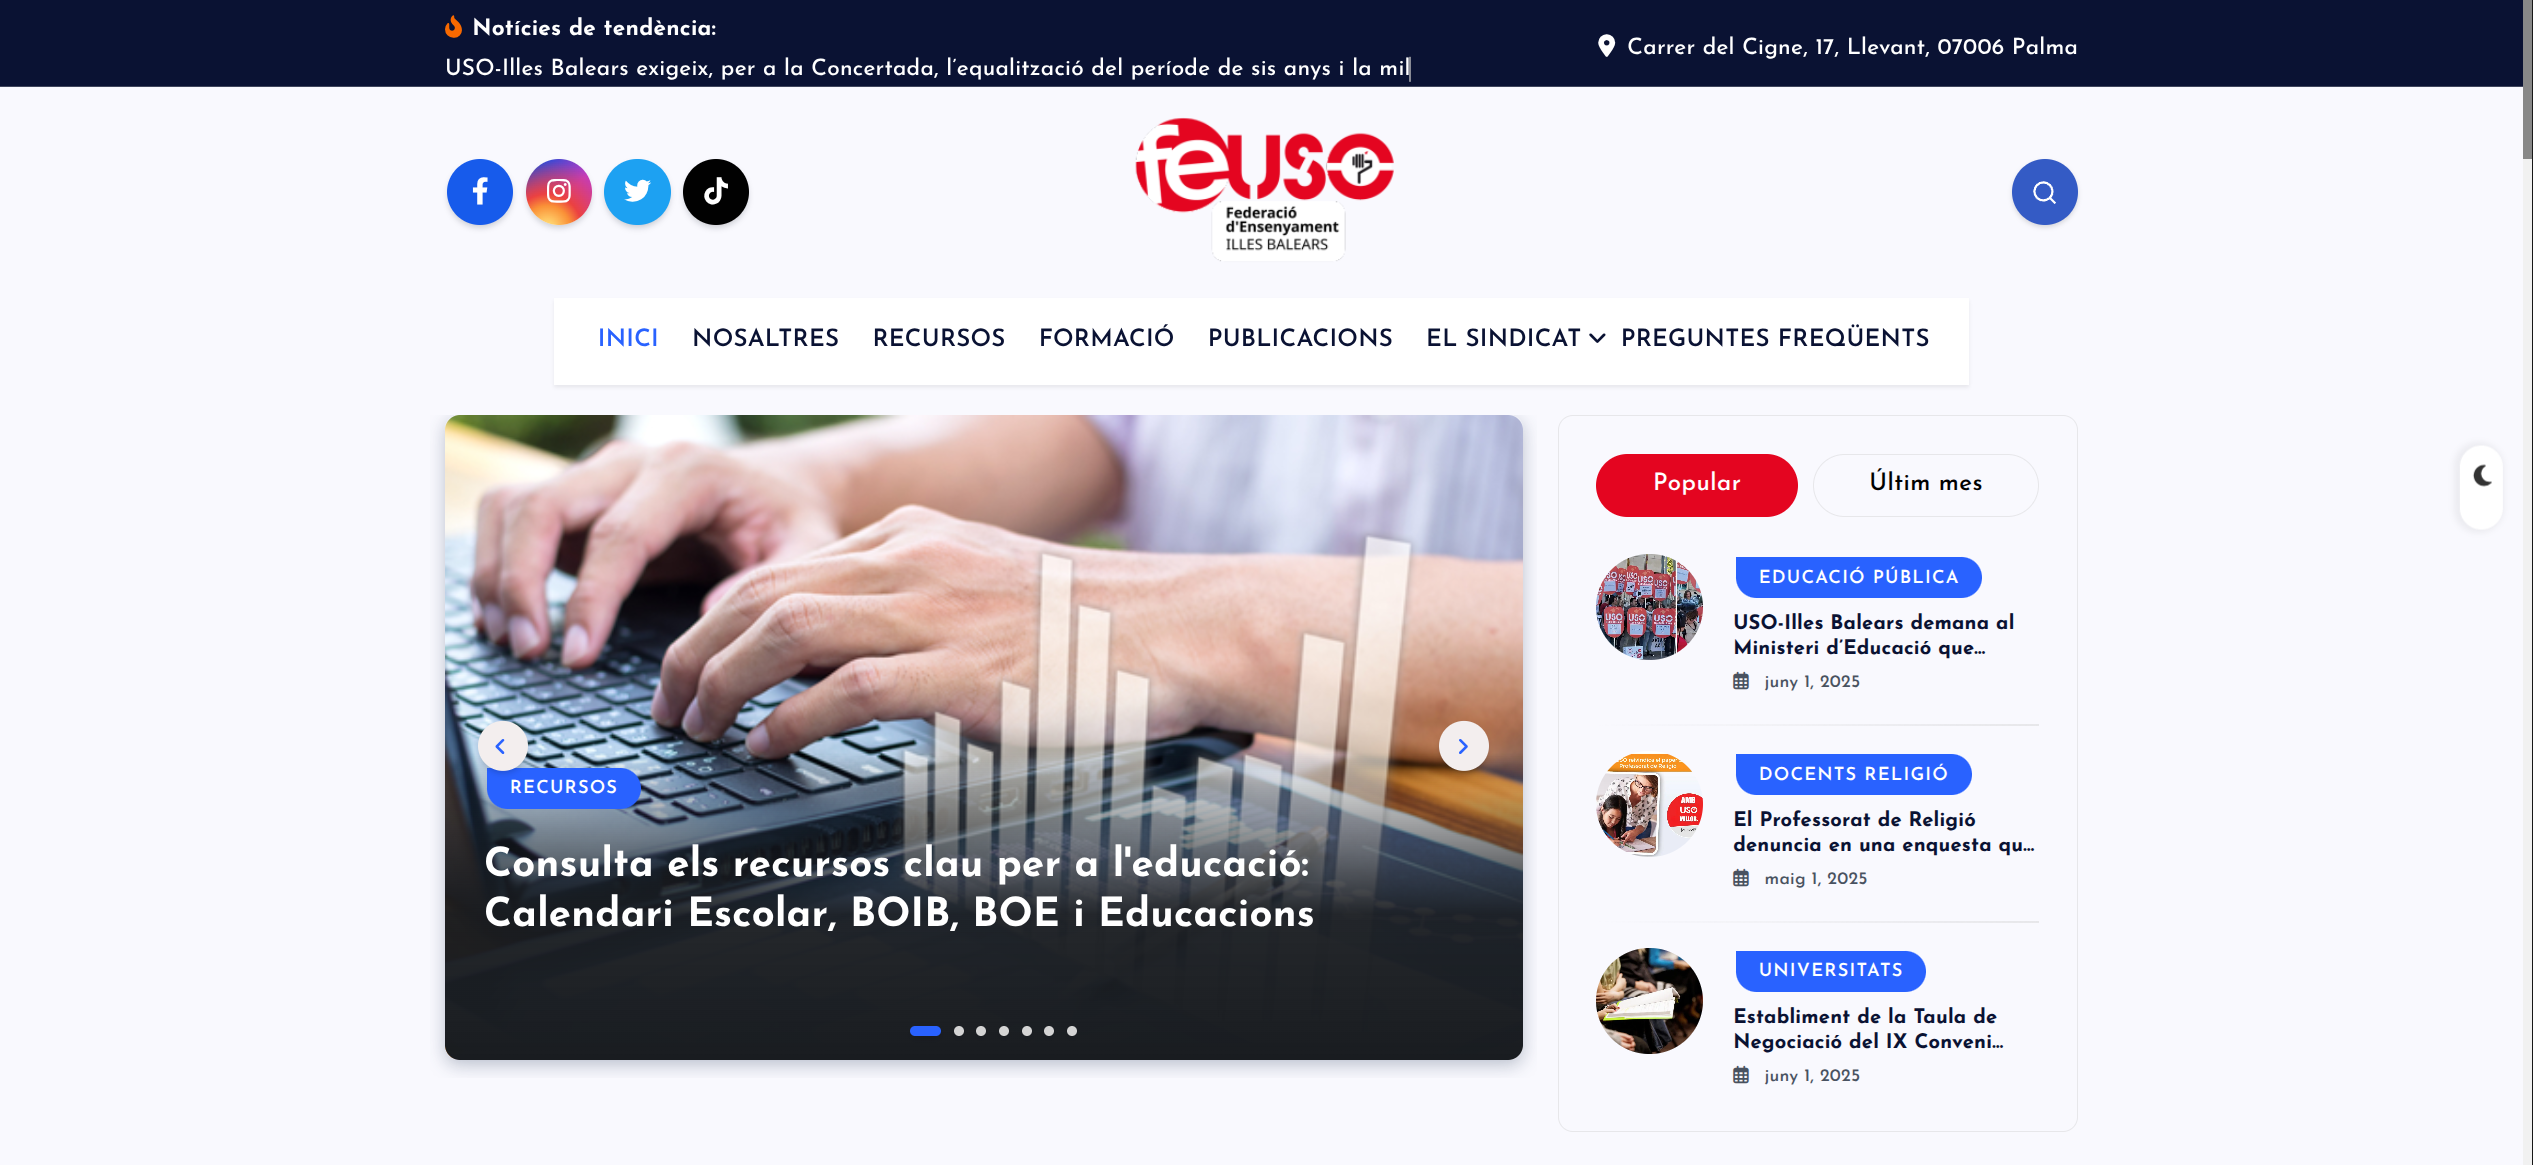
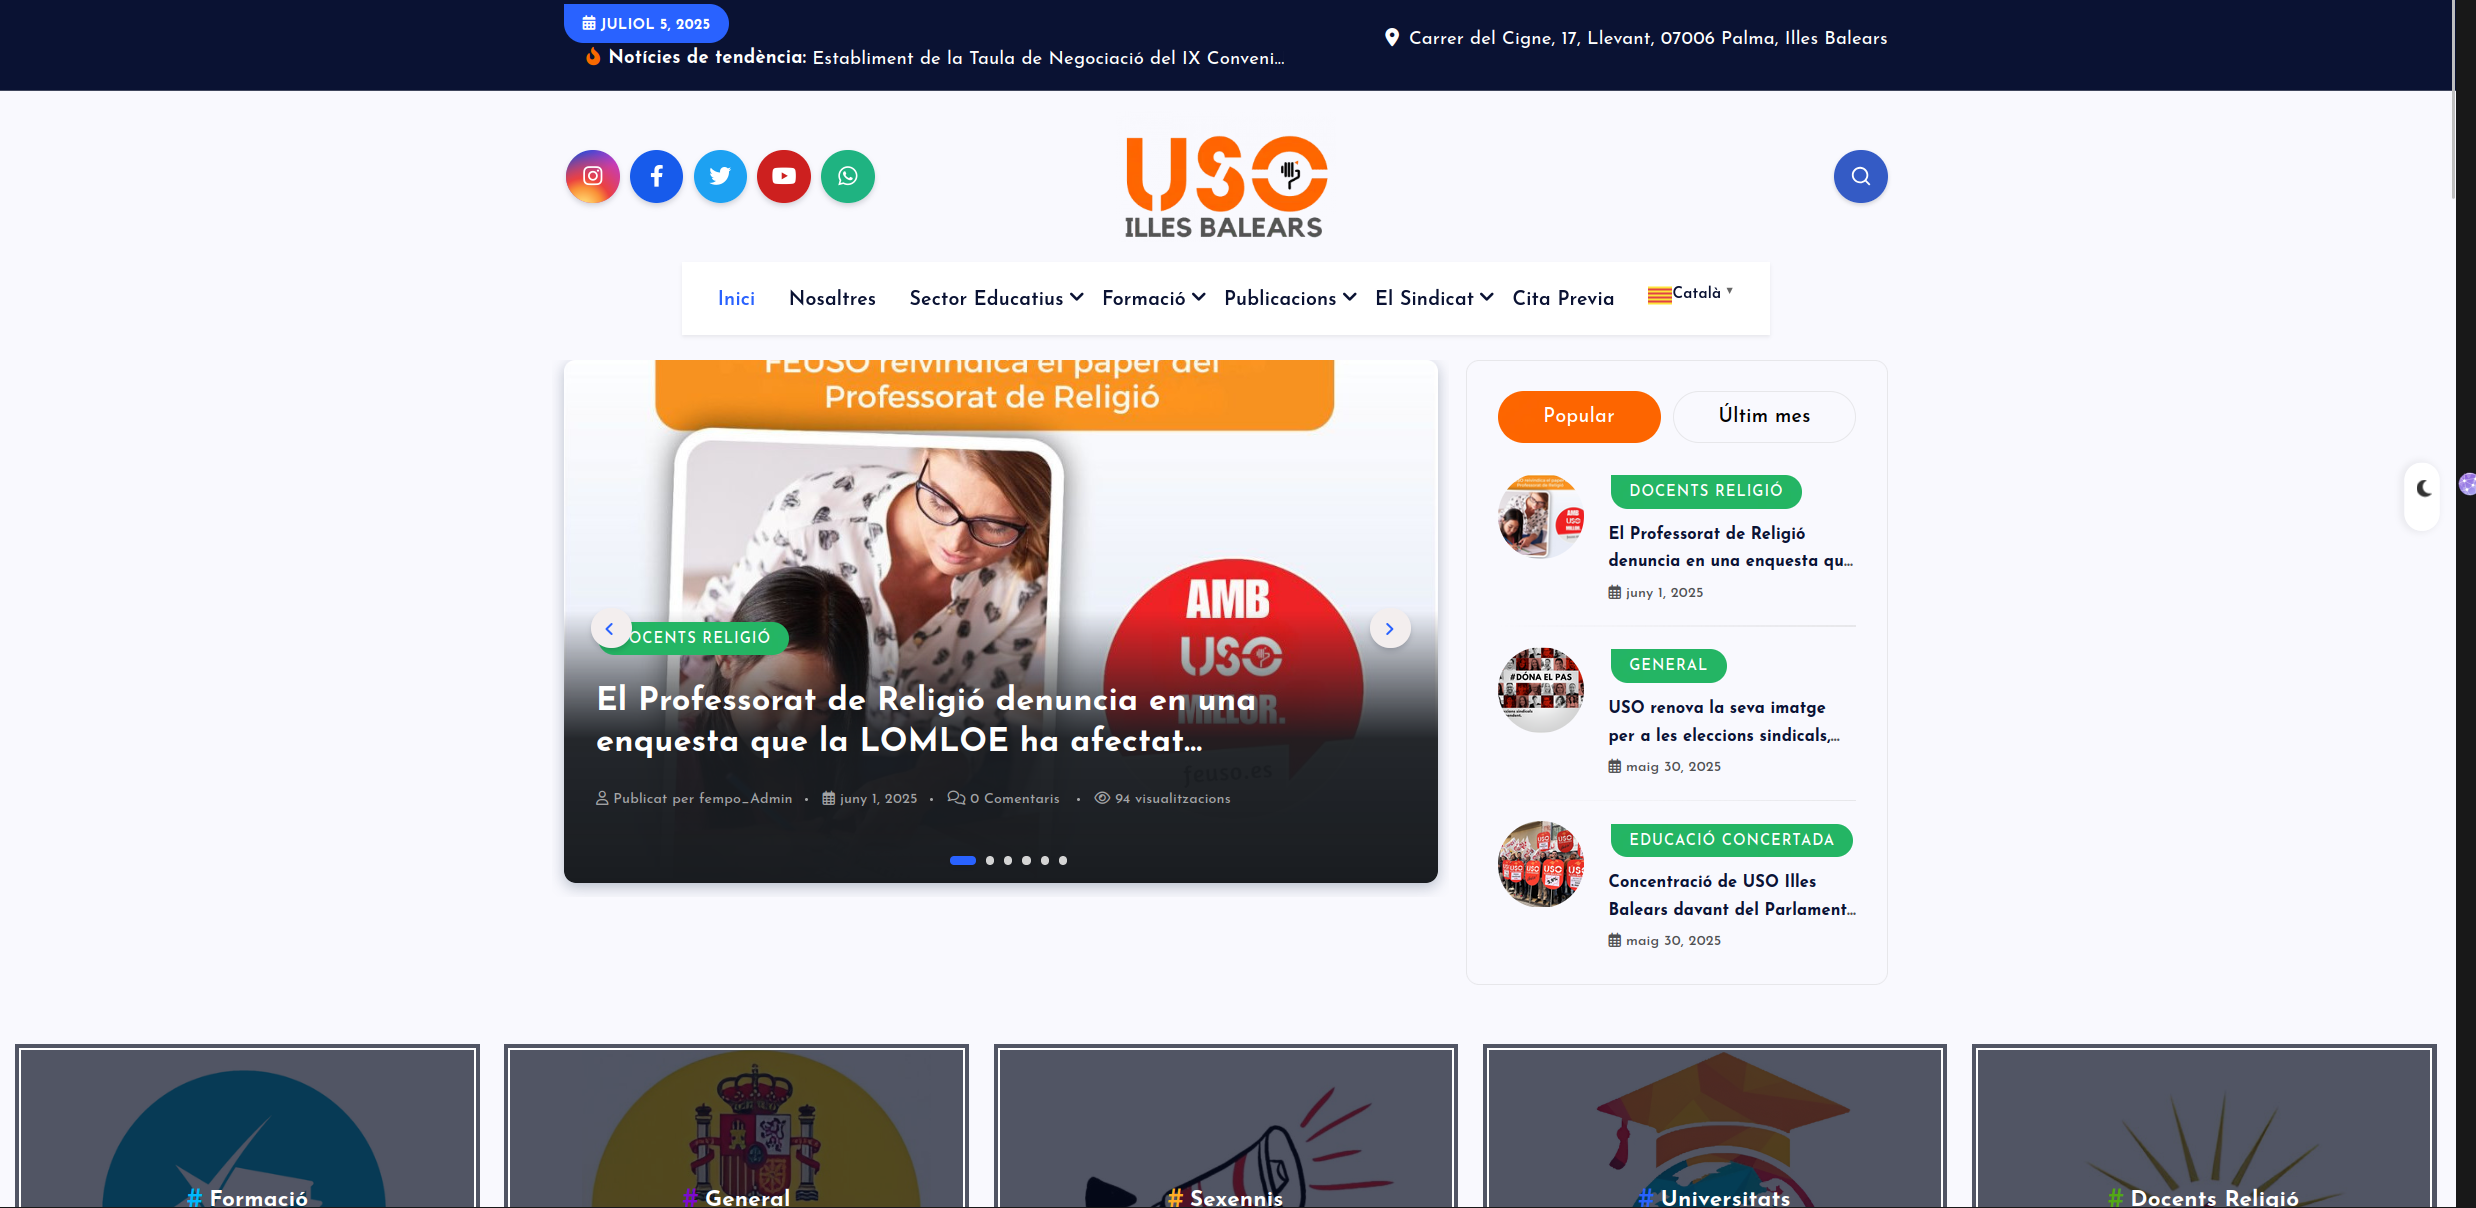
Actualización del README.md: eliminación de enlaces de video y corrección de redacción en la descripción del proyecto. Actualización de la imagen de demostración.

diff --git a/README.md b/README.md
@@ -1,12 +1,10 @@
 # Descripción del proyecto 
 
-[![Demo en uso](demo/uso.png)](https://youtu.be/rgs4uEp0u0U)  
-[Ver demo de la página web de FEUSO](https://youtu.be/rgs4uEp0u0U)
-
+![Demo en uso](demo/uso.png)
 **⚠ Aviso importante:**  
 Después de que el mensaje *"Extracción completada"* aparezca en el servicio `extract`, espera unos segundos para que los cambios se apliquen correctamente antes de acceder a WordPress.
 
-En un primer momento, el desarrollo de esta página web se dividió entre dos grupos: fempo1 y fempo2 (mi grupo), cada uno trabajando de forma independiente y con planteamientos distintos respecto al diseño, la usabilidad y la estructura de la web (se puede visualizar el trabajo que hizo cada equipo en https://github.com/nataliagamezbarea/fempo_uso/tree/fempo_2).
+En un primer momento, el desarrollo de esta página web se dividió entre dos grupos: fempo1 y fempo2 (mi grupo), cada uno trabajando de forma independiente y con planteamientos distintos respecto al diseño, la usabilidad y la estructura de la web (se puede visualizar el trabajo que hizo mi equipo en https://github.com/nataliagamezbarea/fempo_uso/tree/fempo_2).
 
 A partir del 3 de junio, ambos grupos fusionaron sus proyectos con el objetivo de unificar esfuerzos y mejorar el resultado final. Aunque se partió de la estructura inicial creada por fempo2, fempo1 introdujo numerosas modificaciones y mejoras sustanciales, especialmente en lo relativo a la organización del contenido, la navegación y la optimización para el usuario final. Estas aportaciones fueron clave para el desarrollo del producto que finalmente se implementó.
 
